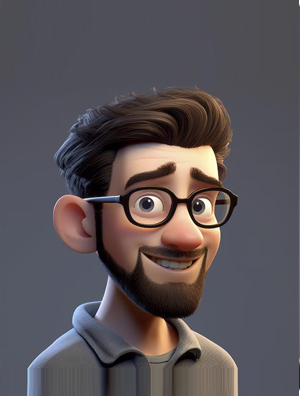
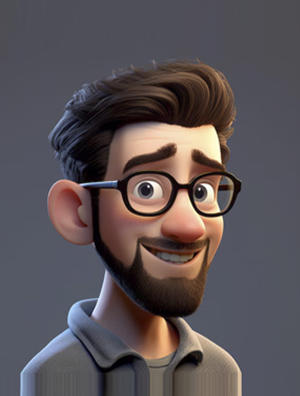
Добавил данные в db, исправил аватарки, оффер доработал по стилизации

diff --git a/src/database/db.js b/src/database/db.js
@@ -26,9 +26,8 @@ export const database = {
 			makeInProject: [
 				{ id: '1', text: 'Инициализация VITE проекта.' },
 				{ id: '2', text: 'Подключение GitHub.' },
-				{ id: '3', text: 'Создание layout.' },
+				{ id: '3', text: 'Создание layout (верстка).' },
 				{ id: '5', text: 'Разработка архитектуры App.' },
-				{ id: '6', text: 'Инициализация VITE проекта.' },
 				{ id: '7', text: 'Отрисовка интерфейса в Figma.' },
 				{ id: '9', text: 'Создание компонента Карточка' },
 				{ id: '8', text: 'Создание компонента Аватарка' },
@@ -90,9 +89,10 @@ export const database = {
 			],
 			text: 'Обучаюсь на курсе Frontend-разработчик уровня Junior. Знаю основы HTML, CSS и JavaScript. Изучаю React и основы Redux. Мне нравиться программировать и заниматься саморазвитием',
 			makeInProject: [
-				{ id: '1', text: 'Создание компонентов Input, Button, Badge' },
+				{ id: '1', text: 'Создание компонентов Input, Button' },
 				{ id: '2', text: 'Разработка компонента Progress' },
 				{ id: '3', text: 'Разработка компонента Slider' },
+				{ id: '4', text: 'Разработка компонента Badge' },
 				{ id: '5', text: 'Разработка компонента Offer.' },
 			],
 			level: '73',
@@ -142,37 +142,30 @@ export const database = {
 			avatar: AndreiAvatar,
 			socialLinks: [
 				{ socialName: 'Twitter', url: 'twitter.com', color: '#52b7ee' },
-				{ socialName: 'Telegram', url: 'ulr', color: '#399AD0' },
-				{ socialName: 'Instagram', url: 'ulr', color: '#95305A' },
-				{ socialName: 'LinkedIn', url: 'ulr', color: '#399AD0' },
+				{ socialName: 'Telegram', url: 't.me/pachalia', color: '#399AD0' },
+				{ socialName: 'Instagram', url: 'instagram.com', color: '#95305A' },
 			],
-			text: 'Тут текст про разработчика Тут текст про разработчика Тут текст про разработчика Тут текст про разработчика Тут текст про разработчика Тут текст про разработчика Тут текст про разработчика.',
+			text: 'Frontend разработчик от бога',
 			makeInProject: [
-				{ id: '1', text: 'Инициализация VITE проекта.' },
-				{ id: '2', text: 'Подключение GitHub.' },
-				{ id: '3', text: 'Создание layout.' },
-				{ id: '5', text: 'Разработка архитектуры App.' },
-				{ id: '6', text: 'Инициализация VITE проекта.' },
-				{ id: '7', text: 'Отрисовка интерфейса в Figma.' },
-				{ id: '9', text: 'Динамическая отрисовка компонента "Карточка"' },
-				{ id: '10', text: 'Динамическая отрисовка компонента "Карточка"' },
-				{ id: '11', text: 'Динамическая отрисовка компонента "Карточка"' },
-				{ id: '12', text: 'Динамическая отрисовка компонента "Карточка"' },
-				{ id: '13', text: 'Динамическая отрисовка компонента "Карточка"' },
+				{ id: '1', text: 'Реализовал Redux Store' },
+				{ id: '2', text: 'Разработка архитектуры проекта' },
+				{ id: '3', text: 'Создал компонент Избранное' },
+				{ id: '5', text: 'Оргиназовал роутинг' },
+				{ id: '6', text: 'Создал компонент BreadCrumbs' },
 			],
-			level: '89',
+			level: '88',
 			skills: [
-				{ name: 'HTML', color: '#399AD0', level: 74, type: 'line' },
-				{ name: 'CSS', color: '#4539D0', level: 63, type: 'line' },
-				{ name: 'JavaScript', color: '#D4C647', level: 72, type: 'line' },
-				{ name: 'REACT', color: '#56B9E3', level: 68, type: 'line' },
-				{ name: 'REDUX', color: '#214B5C', level: 56, type: 'line' },
-				{ name: 'Backend', color: '#CA4151', level: 37, type: 'circle' },
-				{ name: 'Frontend', color: '#64EAAA', level: 66, type: 'circle' },
+				{ name: 'HTML', color: '#399AD0', level: 94, type: 'line' },
+				{ name: 'CSS', color: '#4539D0', level: 83, type: 'line' },
+				{ name: 'JavaScript', color: '#D4C647', level: 87, type: 'line' },
+				{ name: 'REACT', color: '#56B9E3', level: 78, type: 'line' },
+				{ name: 'REDUX', color: '#214B5C', level: 81, type: 'line' },
+				{ name: 'Backend', color: '#CA4151', level: 87, type: 'circle' },
+				{ name: 'Frontend', color: '#64EAAA', level: 71, type: 'circle' },
 			],
 			ultimate: 'Interface',
 			badge: [
-				{ id: '001', title: 'Top', type: BADGE_TYPE.INFO },
+				{ id: '001', title: 'Top Developer', type: BADGE_TYPE.INFO },
 				{ id: '002', title: 'BackMagic', type: BADGE_TYPE.WARNING },
 			],
 			projects: [

diff --git a/src/components/button/button.jsx b/src/components/button/button.jsx
@@ -46,7 +46,7 @@ export const Button = ({
 
 	return (
 		<button
-			className={`${arbitraryHeight} ${arbitraryWidth} ${rounded} font-bold py-1 px-4 disabled:opacity-50 transition-all ease-in-out`}
+			className={`${arbitraryHeight} ${arbitraryWidth} ${rounded} font-semibold py-1 px-4 disabled:opacity-50 transition-all ease-in-out`}
 			style={buttonStyle}
 			onClick={onClick}
 			onMouseEnter={handleMouseEnter}

diff --git a/src/components/offer/offer.jsx b/src/components/offer/offer.jsx
@@ -11,8 +11,8 @@ export const Offer = () => {
 	};
 
 	return (
-		<div className="flex flex-col gap-24 justify-center items-center w-full h-full">
-			<div className="w-full h-1/3 p-6">
+		<div className="flex flex-col gap-24 justify-center items-center w-full h-full pt-20">
+			<div className="w-full h-1/3 p-10">
 				<TeamFan />
 			</div>
 			<div className="w-full h-3/4">

diff --git a/src/components/slider/components/slide/slide.jsx b/src/components/slider/components/slide/slide.jsx
@@ -2,8 +2,6 @@ import PropTypes from 'prop-types';
 import React from 'react';
 
 export const Slide = ({ imageUrl, title = '', url }) => {
-	console.log('imageUrl', imageUrl);
-
 	return (
 		<div className="flex-[1_0_100%] relative">
 			<img src={imageUrl} alt={title} className="flex mt-auto mx-auto w-full h-full object-contain" />

diff --git a/src/components/offer/components/offerForm/offerForm.jsx b/src/components/offer/components/offerForm/offerForm.jsx
@@ -49,7 +49,7 @@ export const OfferForm = ({ onSubmit }) => {
 					/>
 				</div>
 
-				<a className="block" href="#">
+				<a className="block text-gray-500" href="#">
 					Публичная оферта
 				</a>
 			</form>
